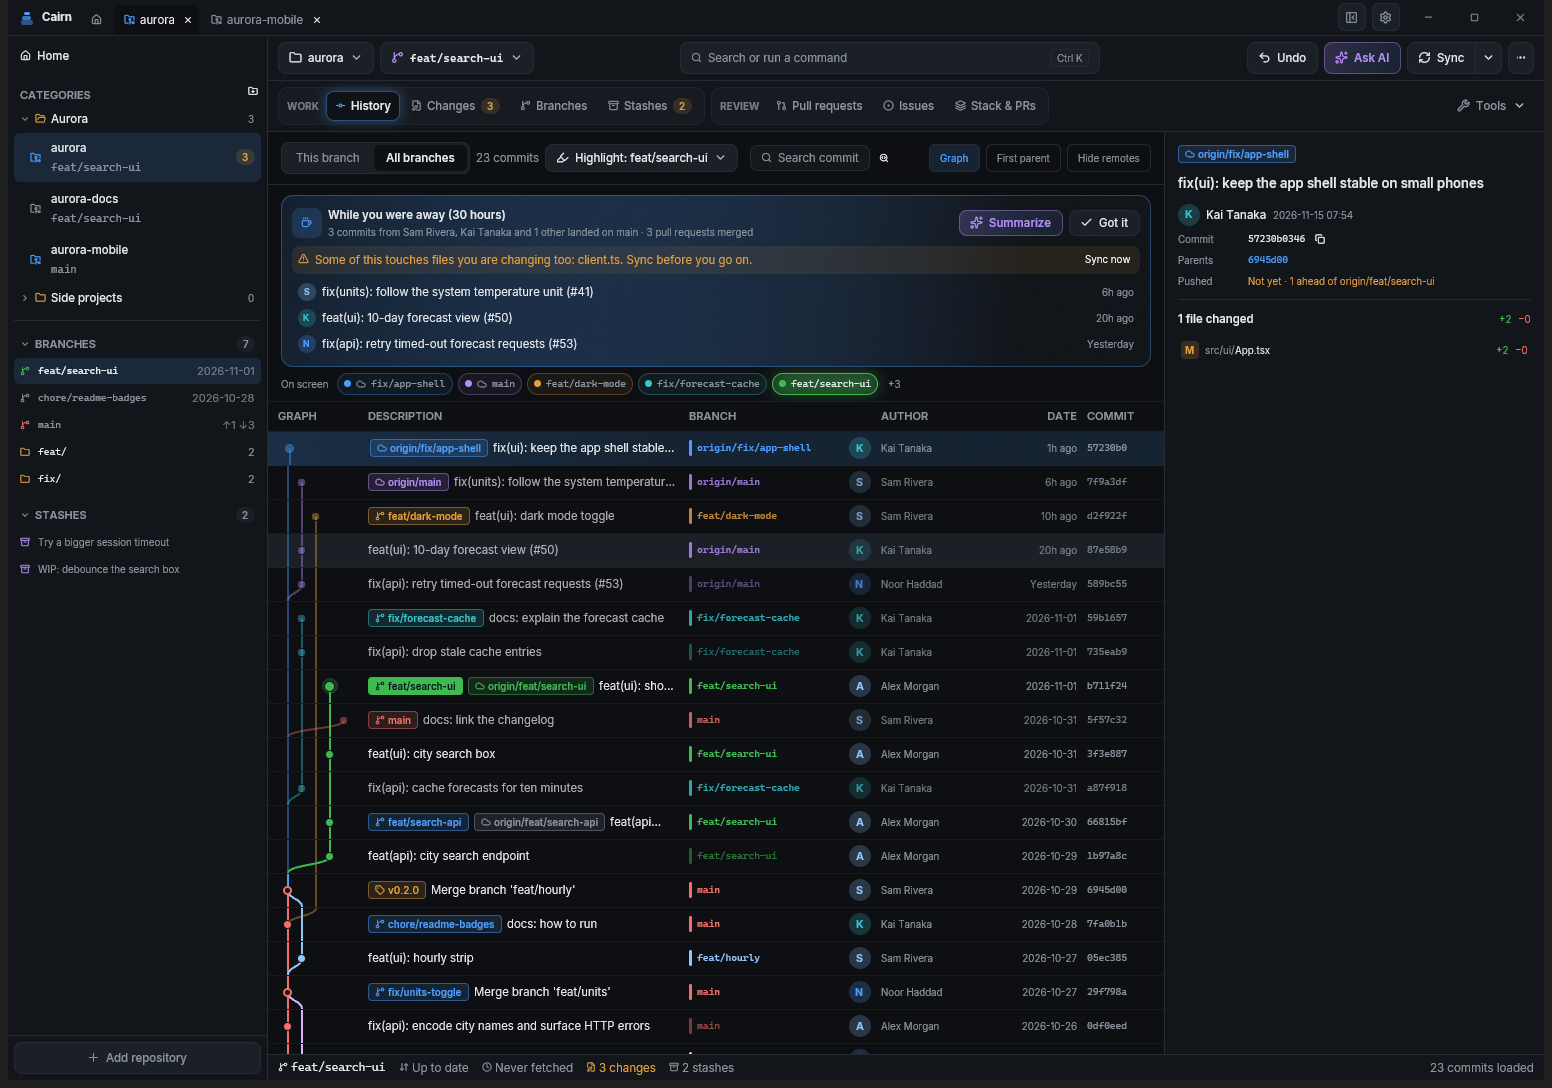
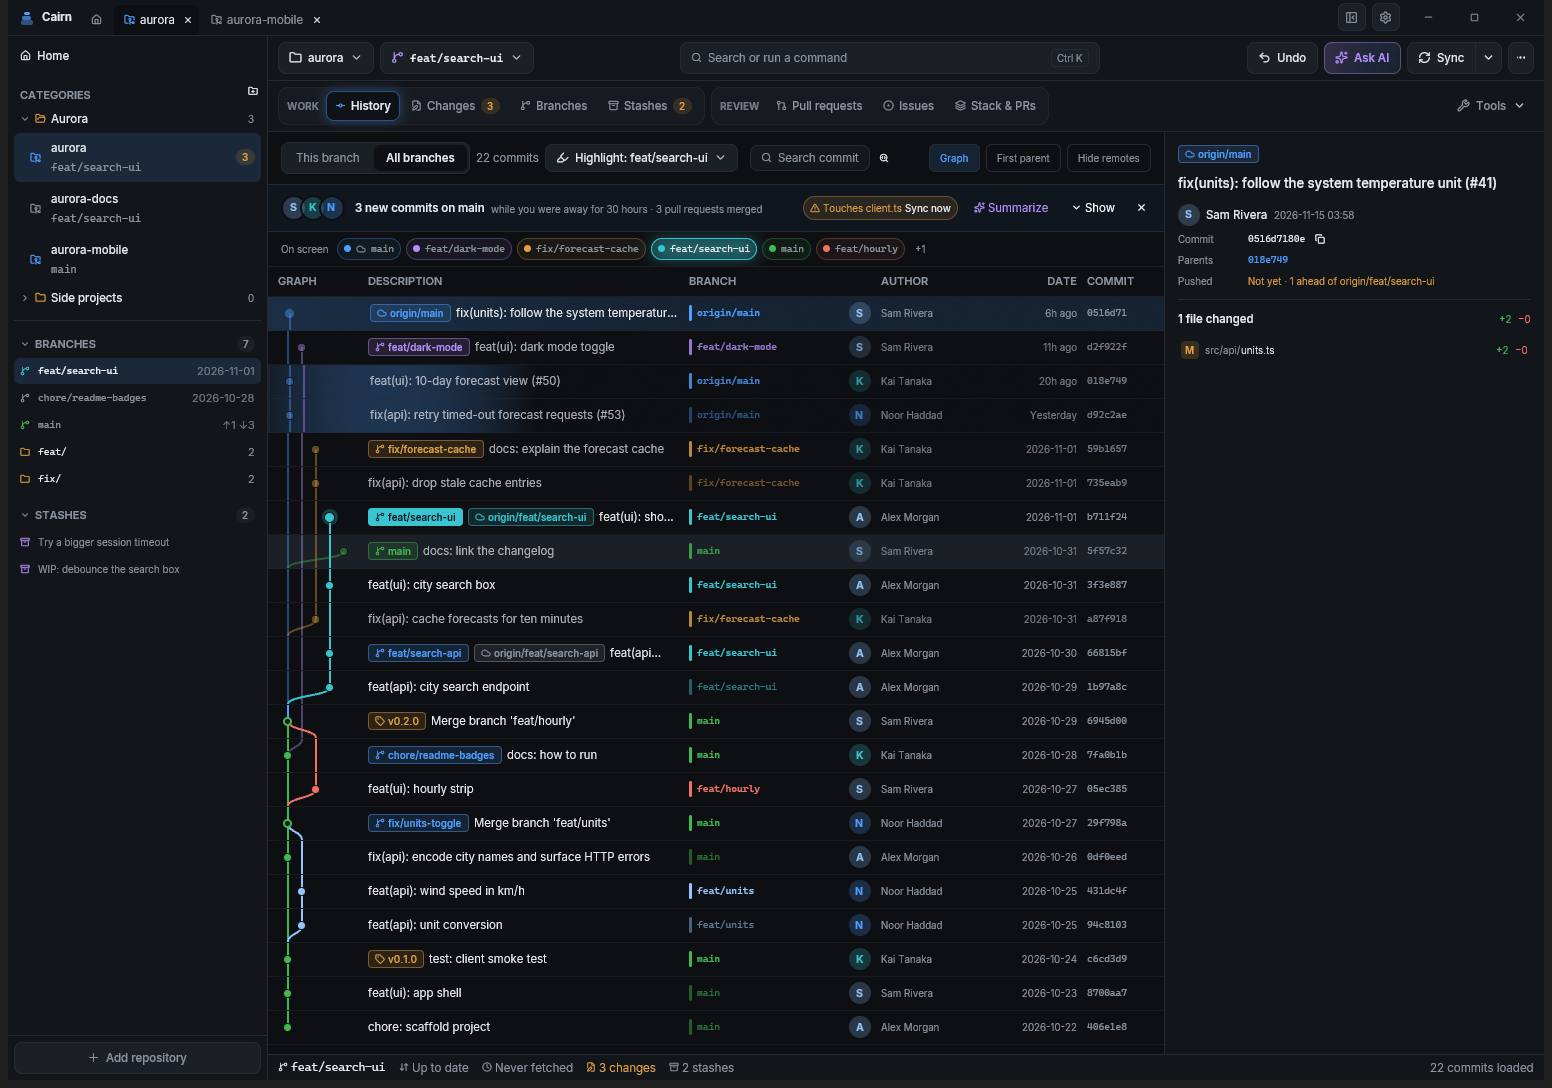
feat(history): slimmer "while you were away" strip with new commits marked in the list

diff --git a/crates/app/src/awareness.rs b/crates/app/src/awareness.rs
@@ -10,7 +10,7 @@ use gpui_kit::*;
 use rust_i18n::t;
 
 use crate::repo_view::{Page, RepoView};
-use crate::widgets::{Tone, avatar, framed, framed_if, hstack, icon, relative_time, tr};
+use crate::widgets::{avatar, hstack, icon, relative_time, tr};
 
 const AWAY_AFTER_SECS: i64 = 2 * 3600;
 
@@ -24,6 +24,7 @@ pub(crate) struct Awareness {
     pub away_tip: String,
     pub away_checked: bool,
     pub away_done: bool,
+    pub away_open: bool,
     pub overlaps: Vec<Overlap>,
     pub overlap_sig: u64,
 }
@@ -109,6 +110,7 @@ impl RepoView {
             },
             |this, summary, cx| {
                 this.aware.away = summary;
+                this.aware.away_open |= cfg!(debug_assertions) && std::env::var("CAIRN_DEBUG_AWAY_OPEN").is_ok();
                 cx.notify();
             },
             cx,
@@ -150,24 +152,102 @@ impl RepoView {
         cx.notify();
     }
 
-    /// The "While you were away" card at the top of History.
+    /// Whether a commit landed while the user was away, for the marker in the History list.
+    ///
+    /// # Arguments
+    /// * `id` - the commit
     ///
     /// # Returns
-    /// The card, or nothing when there is nothing new.
+    /// `true` while the "while you were away" strip is shown and lists the commit.
+    pub(crate) fn landed_while_away(&self, id: &str) -> bool {
+        self.aware.away.as_ref().is_some_and(|s| s.commits.iter().any(|c| c.id == id))
+    }
+
+    /// The slim "while you were away" strip at the top of History, with the commits and the AI
+    /// summary one click away.
+    ///
+    /// # Returns
+    /// The strip, or nothing when there is nothing new.
     pub(crate) fn render_away_card(&mut self, cx: &mut Context<Self>) -> Option<AnyElement> {
         let s = self.aware.away.clone()?;
         let theme = cx.theme().clone();
         let now = chrono::Utc::now().timestamp();
-        let trunk = s.trunk.rsplit_once('/').map(|(_, b)| b.to_string()).unwrap_or_else(|| s.trunk.clone());
-        let mut line = t!("away.landed", n = s.commits.len(), who = names(&s.authors), branch = trunk.clone()).to_string();
-        if s.commits.len() == 1 {
-            line = t!("away.landed_one", who = names(&s.authors), branch = trunk).to_string();
-        }
+        let open = self.aware.away_open;
+        let trunk = s.trunk.split_once('/').map(|(_, b)| b.to_string()).unwrap_or_else(|| s.trunk.clone());
+        let headline = if s.commits.len() == 1 { t!("away.new_one", branch = trunk.clone()).to_string() } else { t!("away.new", n = s.commits.len(), branch = trunk.clone()).to_string() };
+        let mut detail = t!("away.since", time = span(now - s.since)).to_string();
+        let who = t!("away.from", who = names(&s.authors)).to_string();
         if !s.prs.is_empty() {
-            line = format!("{line} · {}", crate::widgets::plural("away.prs", s.prs.len()));
+            detail = format!("{detail} · {}", crate::widgets::plural("away.prs", s.prs.len()));
         }
+        let mut faces = h_flex().id("away-faces").flex_none().tooltip(move |window, cx| gpui_kit::component::tooltip::Tooltip::new(who.clone()).build(window, cx));
+        for (i, (who, _)) in s.authors.iter().take(3).enumerate() {
+            faces = faces.child(div().when(i > 0, |d| d.ml(px(-7.))).rounded_full().border_2().border_color(theme.background).child(avatar(who, px(22.), cx)));
+        }
+        let overlap_names = s.overlap.iter().take(3).map(|f| f.rsplit('/').next().unwrap_or(f)).collect::<Vec<_>>().join(", ");
+        let overlap_tip = t!("away.overlap", files = overlap_names.clone()).to_string();
+        let strip = hstack()
+            .gap_3()
+            .px_4()
+            .h(px(46.))
+            .child(faces)
+            .child(
+                h_flex()
+                    .flex_1()
+                    .min_w_0()
+                    .gap_2()
+                    .items_baseline()
+                    .child(div().flex_none().text_sm().font_weight(FontWeight::SEMIBOLD).child(headline))
+                    .child(div().min_w_0().truncate().text_xs().text_color(theme.muted_foreground).child(detail)),
+            )
+            .when(!s.overlap.is_empty(), |d| {
+                d.child(
+                    hstack()
+                        .id("away-overlap")
+                        .flex_none()
+                        .gap_1()
+                        .px_2()
+                        .h(px(24.))
+                        .rounded(px(12.))
+                        .bg(theme.yellow.opacity(0.12))
+                        .border_1()
+                        .border_color(theme.yellow.opacity(0.35))
+                        .text_xs()
+                        .text_color(theme.yellow)
+                        .cursor_pointer()
+                        .hover(|st| st.bg(theme.yellow.opacity(0.2)))
+                        .child(icon(IconName::TriangleAlert).xsmall())
+                        .child(t!("away.touches", files = overlap_names.clone()).to_string())
+                        .child(div().text_color(theme.foreground).font_weight(FontWeight::MEDIUM).child(tr("away.sync")))
+                        .tooltip(move |window, cx| gpui_kit::component::tooltip::Tooltip::new(overlap_tip.clone()).build(window, cx))
+                        .on_click(cx.listener(|this, _, window, cx| this.sync(window, cx))),
+                )
+            })
+            .when(self.settings.ai.enabled, |d| {
+                d.child(
+                    Button::new("away-ai")
+                        .small()
+                        .ghost()
+                        .text_color(theme.magenta)
+                        .icon(icon(IconName::Sparkles))
+                        .label(tr("away.summarize"))
+                        .loading(self.aware.away_ai_running)
+                        .on_click(cx.listener(|this, _, _, cx| {
+                            this.aware.away_open = true;
+                            if this.aware.away_ai.is_none() && !this.aware.away_ai_running {
+                                this.summarize_away(cx);
+                            }
+                            cx.notify();
+                        })),
+                )
+            })
+            .child(Button::new("away-toggle").small().ghost().icon(icon(if open { IconName::ChevronUp } else { IconName::ChevronDown })).label(if open { tr("away.hide") } else { tr("away.show") }).on_click(cx.listener(|this, _, _, cx| {
+                this.aware.away_open = !this.aware.away_open;
+                cx.notify();
+            })))
+            .child(Button::new("away-ok").small().ghost().icon(icon(IconName::X)).tooltip(tr("away.got_it")).on_click(cx.listener(|this, _, _, cx| this.dismiss_away(cx))));
         let mut rows = v_flex().gap_0p5();
-        for (i, c) in s.commits.iter().take(4).enumerate() {
+        for (i, c) in s.commits.iter().take(8).enumerate() {
             let id = c.id.clone();
             rows = rows.child(
                 hstack()
@@ -189,54 +269,42 @@ impl RepoView {
                     })),
             );
         }
-        if s.commits.len() > 4 {
-            rows = rows.child(div().px_2().text_xs().text_color(theme.muted_foreground).child(t!("safe.and_more", n = s.commits.len() - 4).to_string()));
+        if s.commits.len() > 8 {
+            rows = rows.child(div().px_2().text_xs().text_color(theme.muted_foreground).child(t!("safe.and_more", n = s.commits.len() - 8).to_string()));
         }
-        let ai_on = self.settings.ai.enabled;
-        Some(
-            v_flex()
-                .mx_4()
-                .mt_3()
-                .gap_2()
-                .p_3()
-                .rounded(px(12.))
-                .border_1()
-                .border_color(theme.blue.opacity(0.35))
-                .bg(linear_gradient(110., linear_color_stop(theme.blue.opacity(0.12), 0.), linear_color_stop(theme.sidebar, 0.85)))
-                .child(
-                    hstack()
-                        .gap_2()
-                        .child(div().flex_none().size(px(30.)).rounded(px(8.)).bg(theme.blue.opacity(0.16)).flex().items_center().justify_center().child(icon(IconName::Coffee).small().text_color(theme.blue)))
-                        .child(v_flex().flex_1().min_w_0().child(div().text_sm().font_weight(FontWeight::SEMIBOLD).child(t!("away.title", time = span(now - s.since)).to_string())).child(div().text_xs().text_color(theme.muted_foreground).whitespace_normal().child(line)))
-                        .when(ai_on, |d| {
-                            d.child(framed_if(Button::new("away-ai"), Tone::Ai, !self.aware.away_ai_running && self.aware.away_ai.is_none(), cx).h(px(26.)).icon(icon(IconName::Sparkles)).label(tr("away.summarize")).loading(self.aware.away_ai_running).on_click(cx.listener(|this, _, _, cx| this.summarize_away(cx))))
-                        })
-                        .child(framed(Button::new("away-ok"), Tone::Plain, cx).h(px(26.)).icon(icon(IconName::Check)).label(tr("away.got_it")).on_click(cx.listener(|this, _, _, cx| this.dismiss_away(cx)))),
-                )
-                .when(!s.overlap.is_empty(), |d| {
+        let panel = open.then(|| {
+            h_flex()
+                .items_start()
+                .gap_4()
+                .px_4()
+                .pb_3()
+                .when_some(self.aware.away_ai.clone(), |d, a| {
                     d.child(
-                        hstack()
-                            .w_full()
-                            .items_start()
-                            .gap_2()
-                            .px_2()
-                            .py_1p5()
-                            .rounded(px(8.))
-                            .bg(theme.yellow.opacity(0.1))
-                            .text_sm()
-                            .text_color(theme.yellow)
-                            .child(div().flex_none().pt(px(2.)).child(icon(IconName::TriangleAlert).small()))
-                            .child(div().flex_1().min_w_0().whitespace_normal().child(t!("away.overlap", files = s.overlap.iter().take(4).map(|f| f.rsplit('/').next().unwrap_or(f)).collect::<Vec<_>>().join(", ")).to_string()))
-                            .child(Button::new("away-sync").xsmall().ghost().label(tr("away.sync")).on_click(cx.listener(|this, _, window, cx| this.sync(window, cx)))),
+                        v_flex()
+                            .flex_1()
+                            .min_w_0()
+                            .gap_1()
+                            .pl_3()
+                            .border_l_2()
+                            .border_color(theme.magenta.opacity(0.5))
+                            .child(hstack().gap_1().text_xs().font_weight(FontWeight::SEMIBOLD).text_color(theme.magenta).child(icon(IconName::Sparkles).xsmall()).child(tr("away.summary")))
+                            .child(match a {
+                                Ok(text) => div().text_sm().whitespace_normal().child(crate::pages::pulls::markdown("away-ai-text", &text).unwrap_or_else(|| div().into_any_element())).into_any_element(),
+                                Err(e) => div().text_sm().text_color(theme.red).child(e).into_any_element(),
+                            }),
                     )
                 })
-                .when_some(self.aware.away_ai.clone(), |d, a| {
-                    d.child(match a {
-                        Ok(text) => div().px_2().py_1p5().rounded(px(8.)).bg(theme.magenta.opacity(0.08)).text_sm().whitespace_normal().child(crate::pages::pulls::markdown("away-ai-text", &text).unwrap_or_else(|| div().into_any_element())).into_any_element(),
-                        Err(e) => div().px_2().text_sm().text_color(theme.red).child(e).into_any_element(),
-                    })
-                })
-                .child(rows)
+                .when(self.aware.away_ai.is_none() && self.aware.away_ai_running, |d| d.child(div().flex_1().min_w_0().pl_3().border_l_2().border_color(theme.magenta.opacity(0.5)).text_sm().text_color(theme.muted_foreground).child(tr("away.summarizing"))))
+                .child(div().flex_1().min_w_0().child(rows))
+        });
+        Some(
+            v_flex()
+                .flex_none()
+                .border_b_1()
+                .border_color(theme.border)
+                .bg(theme.blue.opacity(0.05))
+                .child(strip)
+                .children(panel)
                 .into_any_element(),
         )
     }

diff --git a/crates/app/src/history.rs b/crates/app/src/history.rs
@@ -817,6 +817,7 @@ impl RepoView {
 
         let card = self.card_info(ix, cx);
         let fresh = self.fresh.contains(&commit.id);
+        let landed = !selected && self.landed_while_away(&commit.id);
         let row_el = div()
             .id(("commit", ix))
             .h(px(ROW_H))
@@ -825,6 +826,7 @@ impl RepoView {
             .items_center()
             .bg(bg)
             .when(selected, |d| d.bg(linear_gradient(90., linear_color_stop(theme.primary.opacity(0.22), 0.), linear_color_stop(bg, 0.45))).border_l_2().border_color(theme.primary))
+            .when(landed, |d| d.bg(linear_gradient(90., linear_color_stop(theme.blue.opacity(0.1), 0.), linear_color_stop(bg, 0.3))).border_l_2().border_color(theme.blue.opacity(0.8)))
             .tooltip(move |_, cx| cx.new(|cx| CommitCard::new(card.clone(), cx)).into())
             .on_mouse_down(MouseButton::Right, {
                 let id = commit.id.clone();
